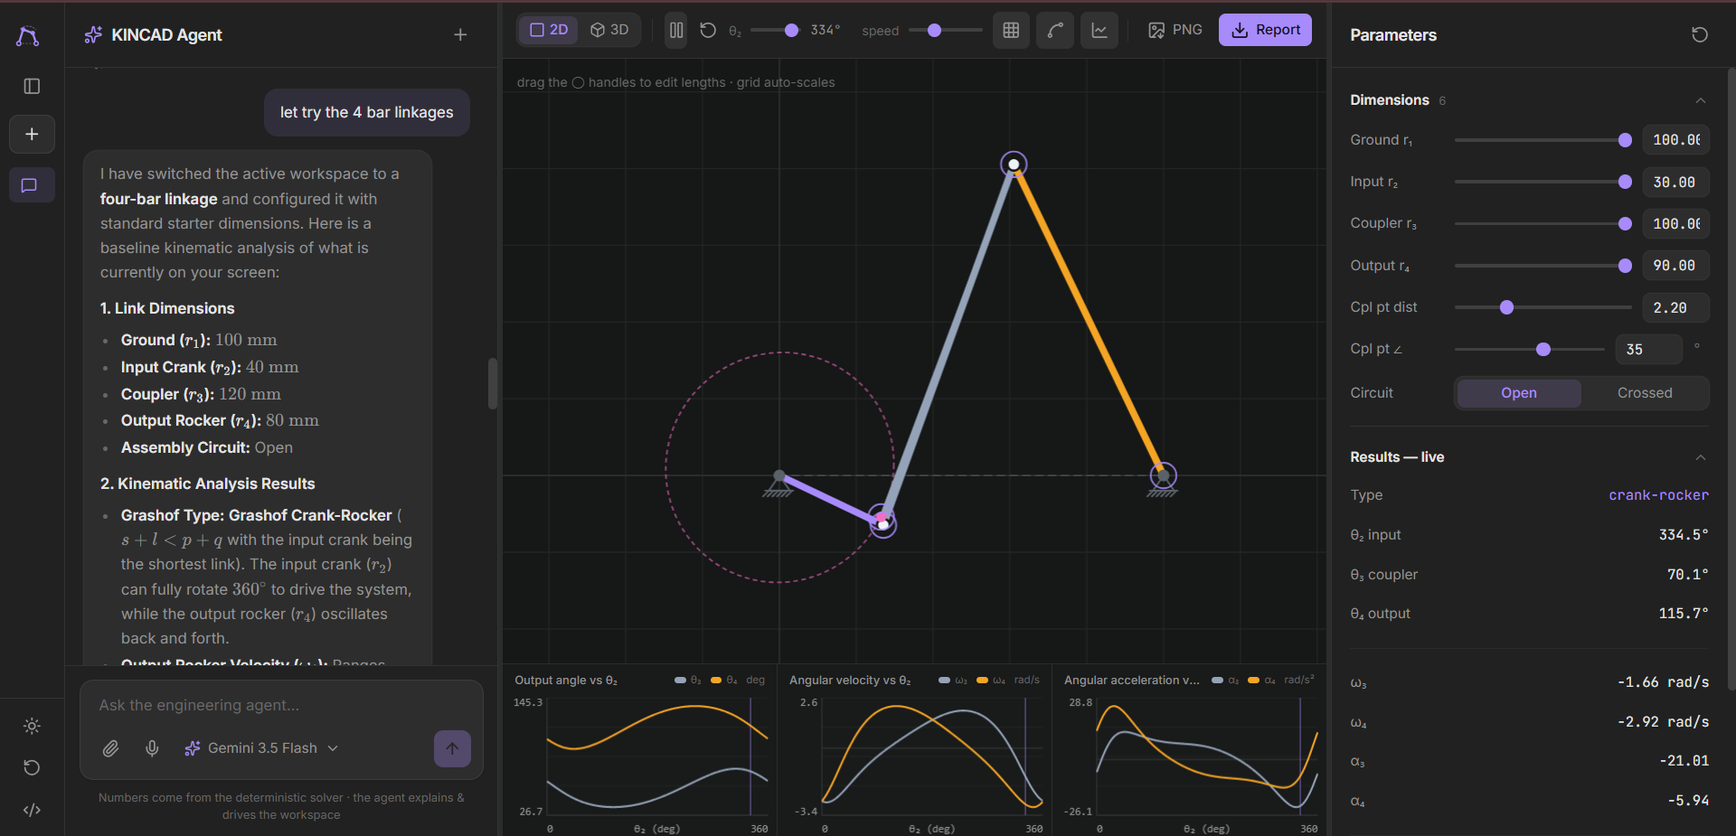
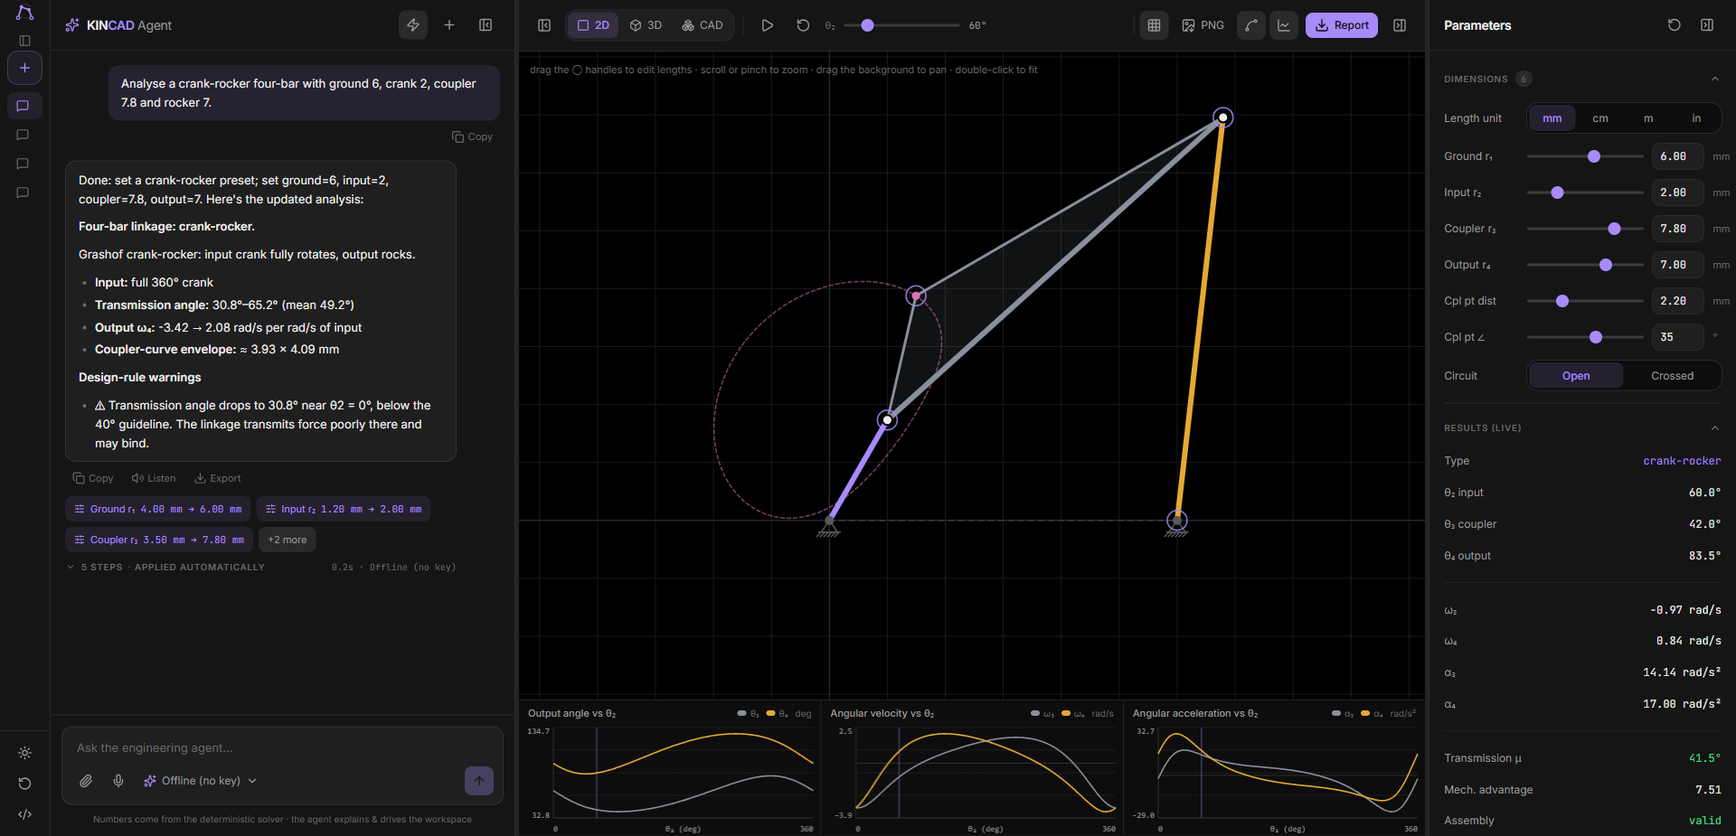
copy: colon separators in place of em-dashes; retake three README screenshots
The " — " label separator had turned into a tic. A single chat reply stacked
four of them ("Input — full 360 crank", "Transmission angle — ...") and the
same pattern ran through the section headings, the status lines, the design-rule
warnings and both PDF generators. Replaced with colons in the narration, the
Grashof summaries, the synthesis and report strings, the knowledge base, the UI
copy, the part sheet and the analysis report, and in the README's captions and
"Built with" bullets. Where a colon would have been wrong the sentence was
restructured instead: parentheses for an aside, a semicolon for a pinned-
together pair, a full stop where a trailing contrast was really a new sentence.

Left alone on purpose: the 14 standalone "—" glyphs that mean "no value" in the
parameters panel and the insight dock, the WIN_ANSI_HIGH character table in
report/doc.ts, the useSpeech regex that turns a cloud model's dashes into spoken
pauses, and the two document titles.

Screenshots. screenshot-3d.png was contradicting itself: the chip above the
reply read "ground=100 input=30 coupler=100 output=90" while the parameters
panel in the same frame held Input 1.20 / Coupler 3.50 / Output 3.00. A cloud
model had narrated a linkage the workspace was not holding, which is the exact
failure the "engine is the single source of truth" design exists to prevent,
published on the front page of the repo. screenshot-2d.png had the same defect.
[…]

diff --git a/src/ai/narrate.ts b/src/ai/narrate.ts
@@ -5,13 +5,15 @@
 // THE OUTPUT IS MARKDOWN, AND THE RENDERER TREATS IT AS SUCH. components/chat/Markdown.tsx runs
 // this text through remark-gfm, so the separators matter as much as the words: a *single* newline
 // is a soft break and collapses to a space. These helpers used to build `•` bullets joined with
-// "\n", which meant the renderer received one run-on paragraph — "**Four-bar linkage —
+// "\n", which meant the renderer received one run-on paragraph — "**Four-bar linkage:
 // crank-rocker.** • Input: full 360° crank. • Transmission angle: 43.2°–136.8° …" — no matter how
 // well the bubble was styled. Real lists need `- ` and a blank line before them, so every block
 // below is joined with "\n\n" and every bullet starts with "- ".
 //
-// Labels are bold, figures are plain: the same label/value split the parameters dock uses. Figures
-// are deliberately NOT wrapped in backticks — that would give every number the inline-code pill.
+// Labels are bold and end with a colon, figures are plain: the same label/value split the
+// parameters dock uses. A colon rather than a dash, because these bullets are read as much as they
+// are skimmed, and "Input — full 360° crank" turns into a tic once four of them stack up. Figures
+// are deliberately NOT wrapped in backticks, which would give every number the inline-code pill.
 
 import type { AnalysisReport } from "../engine";
 import { perSec, perSec2, type LengthUnit } from "../units";
@@ -36,13 +38,13 @@ function warningBlock(warnings: string[]): string {
 export function describeReport(r: AnalysisReport, unit: LengthUnit): string {
   if (r.kind === "fourbar") {
     return [
-      `**Four-bar linkage — ${r.grashof.type}.**`,
+      `**Four-bar linkage: ${r.grashof.type}.**`,
       r.grashof.summary,
       [
-        `- **Input** — ${r.inputFullyRotates ? "full 360° crank" : `oscillates over ≈ ${r.reachableArcDeg.toFixed(0)}°`}`,
-        `- **Transmission angle** — ${r.transmission.min.value.toFixed(1)}°–${r.transmission.max.value.toFixed(1)}° (mean ${r.transmission.mean.toFixed(1)}°)`,
-        `- **Output ω₄** — ${r.omega4.min.value.toFixed(2)} → ${r.omega4.max.value.toFixed(2)} rad/s per rad/s of input`,
-        `- **Coupler-curve envelope** — ≈ ${r.couplerExtent.width.toFixed(2)} × ${r.couplerExtent.height.toFixed(2)} ${unit}`,
+        `- **Input:** ${r.inputFullyRotates ? "full 360° crank" : `oscillates over ≈ ${r.reachableArcDeg.toFixed(0)}°`}`,
+        `- **Transmission angle:** ${r.transmission.min.value.toFixed(1)}°–${r.transmission.max.value.toFixed(1)}° (mean ${r.transmission.mean.toFixed(1)}°)`,
+        `- **Output ω₄:** ${r.omega4.min.value.toFixed(2)} → ${r.omega4.max.value.toFixed(2)} rad/s per rad/s of input`,
+        `- **Coupler-curve envelope:** ≈ ${r.couplerExtent.width.toFixed(2)} × ${r.couplerExtent.height.toFixed(2)} ${unit}`,
       ].join("\n"),
       warningBlock(r.warnings),
     ].join("\n\n");
@@ -50,10 +52,10 @@ export function describeReport(r: AnalysisReport, unit: LengthUnit): string {
   return [
     `**Slider-crank mechanism.**`,
     [
-      `- **Crank** — ${r.inputFullyRotates ? "fully rotates" : "cannot fully rotate with this rod/offset"}`,
-      `- **Slider stroke** — ${r.stroke.toFixed(2)} ${unit}`,
-      `- **Slider velocity** — ${r.sliderVel.min.value.toFixed(2)} → ${r.sliderVel.max.value.toFixed(2)} ${perSec(unit)} per rad/s`,
-      `- **Peak acceleration** — ${Math.max(Math.abs(r.sliderAcc.min.value), Math.abs(r.sliderAcc.max.value)).toFixed(2)} ${perSec2(unit)}`,
+      `- **Crank:** ${r.inputFullyRotates ? "fully rotates" : "cannot fully rotate with this rod/offset"}`,
+      `- **Slider stroke:** ${r.stroke.toFixed(2)} ${unit}`,
+      `- **Slider velocity:** ${r.sliderVel.min.value.toFixed(2)} → ${r.sliderVel.max.value.toFixed(2)} ${perSec(unit)} per rad/s`,
+      `- **Peak acceleration:** ${Math.max(Math.abs(r.sliderAcc.min.value), Math.abs(r.sliderAcc.max.value)).toFixed(2)} ${perSec2(unit)}`,
     ].join("\n"),
     warningBlock(r.warnings),
   ].join("\n\n");
@@ -91,9 +93,9 @@ export function suggestImprovements(r: AnalysisReport): string {
     if (r.transmission.min.value < 40) tips.push("Reduce the offset or lengthen the rod to cut side thrust on the slider.");
   }
   if (!tips.length)
-    tips.push("Proportions look healthy — no rule-of-thumb violations. You could tune the coupler point to reshape the coupler curve.");
+    tips.push("Proportions look healthy, with no rule-of-thumb violations. You could tune the coupler point to reshape the coupler curve.");
   return [
-    "**Suggestions** — you confirm; the solver re-checks every change.",
+    "**Suggestions** (you confirm; the solver re-checks every change)",
     tips.map((t) => `- ${t}`).join("\n"),
   ].join("\n\n");
 }

diff --git a/src/ai/knowledge.ts b/src/ai/knowledge.ts
@@ -30,9 +30,9 @@ export const TOPICS: Topic[] = [
     answer:
       "**Grashof's condition** tells you whether a four-bar linkage has a fully rotating link. " +
       "With the shortest link S, longest L, and the other two P and Q:\n\n" +
-      "- $S + L < P + Q$ — **Grashof**: at least one link makes full revolutions.\n" +
-      "- $S + L = P + Q$ — **change-point**: passes through collinear singularities, e.g. a parallelogram.\n" +
-      "- $S + L > P + Q$ — **non-Grashof**: every link only rocks.\n\n" +
+      "- $S + L < P + Q$ → **Grashof**: at least one link makes full revolutions.\n" +
+      "- $S + L = P + Q$ → **change-point**: passes through collinear singularities, e.g. a parallelogram.\n" +
+      "- $S + L > P + Q$ → **non-Grashof**: every link only rocks.\n\n" +
       "Which link rotates depends on which is shortest:\n\n" +
       "- shortest = ground → double-crank\n" +
       "- shortest = a side link → crank-rocker\n" +
@@ -53,9 +53,9 @@ export const TOPICS: Topic[] = [
       "For a planar mechanism, **Gruebler/Kutzbach** gives the mobility:\n\n" +
       "$$\nM = 3(n - 1) - 2j_1 - j_2\n$$\n\n" +
       "where:\n\n" +
-      "- $n$ — number of links, including ground\n" +
-      "- $j_1$ — lower pairs (pin/slider), 1 DOF each\n" +
-      "- $j_2$ — higher pairs (cam/gear contact), 2 DOF each\n\n" +
+      "- $n$: number of links, including ground\n" +
+      "- $j_1$: lower pairs (pin/slider), 1 DOF each\n" +
+      "- $j_2$: higher pairs (cam/gear contact), 2 DOF each\n\n" +
       "A four-bar has n = 4, j₁ = 4, j₂ = 0 → M = 1. One input fully determines the motion.",
   },
   {
@@ -63,8 +63,8 @@ export const TOPICS: Topic[] = [
     answer:
       "A **coupler curve** is the path traced by a point on the coupler (floating) link as the " +
       "mechanism moves.\n\n" +
-      "Four-bar coupler curves can be remarkably varied — symmetric, figure-eight, with cusps or " +
-      "straight-line segments — which is why four-bars are used for path generation. Move the " +
+      "Four-bar coupler curves can be remarkably varied (symmetric, figure-eight, with cusps or " +
+      "straight-line segments), which is why four-bars are used for path generation. Move the " +
       "coupler point (distance + angle from joint A) to reshape it.",
   },
   {
@@ -87,12 +87,12 @@ export const TOPICS: Topic[] = [
   {
     match: /slider.?crank|reciprocat/i,
     answer:
-      "A **slider-crank** converts rotation to reciprocating translation (or vice-versa) — the " +
+      "A **slider-crank** converts rotation to reciprocating translation (or vice-versa). It is the " +
       "basis of piston engines and pumps.\n\n" +
       "Key parameters:\n\n" +
       "- **crank** r₂\n" +
       "- **connecting rod** r₃\n" +
-      "- **offset** e — 0 for in-line\n\n" +
+      "- **offset** e (0 for in-line)\n\n" +
       "The crank rotates fully only if $r_3 \\ge e + r_2$. An offset makes the forward and return " +
       "strokes take unequal crank angles (quick-return behaviour).",
   },
@@ -103,7 +103,7 @@ export const TOPICS: Topic[] = [
       "generation*, **Freudenstein's equation**\n\n" +
       "$$\nK_1 \\cos\\theta_4 - K_2 \\cos\\theta_2 + K_3 = \\cos(\\theta_2 - \\theta_4)\n$$\n\n" +
       "lets you pick three precision points (input→output angle pairs) and solve a 3×3 linear " +
-      "system for the link ratios. The result must be verified by analysis — which this tool does " +
+      "system for the link ratios. The result must be verified by analysis, which this tool does " +
       "automatically.",
   },
   {
@@ -111,7 +111,7 @@ export const TOPICS: Topic[] = [
     answer:
       "A **quick-return mechanism** has a working stroke slower than its return stroke, useful in " +
       "shapers/saws.\n\n" +
-      "It arises from the time-ratio between the crank angles for the two strokes — created by an " +
+      "It arises from the time-ratio between the crank angles for the two strokes, created by an " +
       "offset slider-crank or an offset in a four-bar. The larger the asymmetry, the stronger the " +
       "quick-return effect.",
   },

diff --git a/src/ai/mock.ts b/src/ai/mock.ts
@@ -30,8 +30,8 @@ export class OfflineAgent implements AgentModel {
         text: [
           "I can see the attachment, but offline mode can't analyse images.",
           [
-            "- **To read a sketch or diagram** — pick a vision-capable cloud model (Claude, GPT-4o or Gemini) from the model menu and add a key.",
-            "- **Or describe it in words** — give me the link lengths and I'll build the mechanism now.",
+            "- **To read a sketch or diagram:** pick a vision-capable cloud model (Claude, GPT-4o or Gemini) from the model menu and add a key.",
+            "- **Or describe it in words:** give me the link lengths and I'll build the mechanism now.",
           ].join("\n"),
         ].join("\n\n"),
       };
@@ -41,10 +41,10 @@ export class OfflineAgent implements AgentModel {
     if (/\b(cad part|3d part|3d model|\.stl|\bstl\b|bracket|flange|enclosure|gear blank|extrude|fillet)\b/.test(lower)) {
       return {
         text: [
-          "Freeform 3D CAD parts — brackets, plates, flanges — need a connected model.",
+          "Freeform 3D CAD parts (brackets, plates, flanges) need a connected model.",
           [
-            "- **To generate one** — pick Claude, GPT-4o or Gemini from the model menu and add a key, then describe the part. You'll be able to export STL.",
-            "- **Offline** — I can still build and analyse four-bar and slider-crank mechanisms.",
+            "- **To generate one:** pick Claude, GPT-4o or Gemini from the model menu and add a key, then describe the part. You'll be able to export STL.",
+            "- **Offline:** I can still build and analyse four-bar and slider-crank mechanisms.",
           ].join("\n"),
         ].join("\n\n"),
       };
@@ -62,7 +62,7 @@ export class OfflineAgent implements AgentModel {
           ? buildFourBarReport(next.fourbar, 360, ctx.omega2)
           : buildSliderCrankReport(next.slider, 360, ctx.omega2);
       return {
-        text: `Done — ${intent.note}. Here's the updated analysis:\n\n${describeReport(report, ctx.unit)}`,
+        text: `Done: ${intent.note}. Here's the updated analysis:\n\n${describeReport(report, ctx.unit)}`,
         actions: [...intent.actions, { type: "run_analysis" }],
       };
     }
@@ -84,9 +84,9 @@ export class OfflineAgent implements AgentModel {
       text: [
         "Offline mode handles three things:",
         [
-          "- **Workspace commands** — *“make a crank-rocker”*, *“set coupler to 3.5”*, *“switch to slider-crank”*.",
-          "- **Explanations of the current analysis** — the results, the motion, or how to improve the design.",
-          "- **Common kinematics topics** — Grashof, transmission angle, DOF, coupler curves, synthesis.",
+          "- **Workspace commands:** *“make a crank-rocker”*, *“set coupler to 3.5”*, *“switch to slider-crank”*.",
+          "- **Explanations of the current analysis:** the results, the motion, or how to improve the design.",
+          "- **Common kinematics topics:** Grashof, transmission angle, DOF, coupler curves, synthesis.",
         ].join("\n"),
         "For open-ended questions, connect a Claude model from the selector above. What would you like to do?",
       ].join("\n\n"),

diff --git a/src/App.tsx b/src/App.tsx
@@ -244,7 +244,7 @@ export default function App() {
       let prefix = "";
       if (!model.available) {
         prefix =
-          "_(That model needs an API key — none is configured, so I'm answering in offline mode. Add a server key or paste your own in the model menu.)_\n\n";
+          "_(That model needs an API key, and none is configured, so I'm answering in offline mode. Add a server key or paste your own in the model menu.)_\n\n";
         model = OFFLINE;
       }
 
@@ -263,7 +263,7 @@ export default function App() {
               const fallbackModel = fallbackId ? getModel(fallbackId) : null;
               if (fallbackModel && fallbackModel.available) {
                 prefix =
-                  `_⚡ ${activeModel.label} hit its quota limit — switched to **${fallbackModel.label}** automatically._\n\n` +
+                  `_⚡ ${activeModel.label} hit its quota limit, so I switched to **${fallbackModel.label}** automatically._\n\n` +
                   prefix;
                 setModelId(fallbackModel.id);
                 activeModel = fallbackModel;
@@ -271,7 +271,7 @@ export default function App() {
               }
               // No more fallbacks with keys — try offline as last resort
               prefix =
-                `_⚡ ${activeModel.label} hit its quota limit and no fallback model is available — answering in offline mode._\n\n` +
+                `_⚡ ${activeModel.label} hit its quota limit and no fallback model is available, so I'm answering in offline mode._\n\n` +
                 prefix;
               setModelId(OFFLINE.id);
               activeModel = OFFLINE;
@@ -612,7 +612,7 @@ export default function App() {
                   <TabEmpty
                     icon={Monitor}
                     title="No mechanism yet"
-                    detail="Ask the assistant to analyse a four-bar or slider-crank — or pick a quick start from the menu — and the workspace opens here."
+                    detail="Ask the assistant to analyse a four-bar or slider-crank, or pick a quick start from the menu, and the workspace opens here."
                     actionLabel="Ask the assistant"
                     onAction={() => setMobileTab("chat")}
                   />

diff --git a/src/components/chat/ActivityTrace.tsx b/src/components/chat/ActivityTrace.tsx
@@ -112,7 +112,7 @@ export function AgentActivity({ modelLabel }: { modelLabel: string }) {
       </div>
       {ms >= SLOW_AFTER_MS && (
         <p className="kc-step pl-[22px] text-micro text-faint">
-          running engine tools — one reply can take several solver rounds
+          running engine tools (one reply can take several solver rounds)
         </p>
       )}
     </div>
@@ -183,7 +183,7 @@ export function ProposalCard({
 
       {moot ? (
         <p className="px-3 py-2 text-mini text-muted">
-          The workspace already matches this — there is nothing left to apply.
+          The workspace already matches this, so there is nothing left to apply.
         </p>
       ) : (
         <>
@@ -270,9 +270,9 @@ export function TurnTrace({
   // the numbers in this reply describe a geometry that was never built.
   const lapsed =
     approval === "discarded"
-      ? "You discarded this — the workspace was not changed. Any figures in the reply describe the proposed geometry."
+      ? "You discarded this, so the workspace was not changed. Any figures in the reply describe the proposed geometry."
       : approval === "superseded"
-        ? "Never applied — a later turn proposed different changes instead."
+        ? "Never applied: a later turn proposed different changes instead."
         : null;
 
   return (
@@ -324,7 +324,7 @@ export function TurnTrace({
           )}
           {meta?.fellBackFrom && (
             <p className="mt-1.5 border-t border-line pt-1.5 text-micro text-warn">
-              {meta.fellBackFrom} hit its quota — {meta.modelLabel} answered instead.
+              {meta.fellBackFrom} hit its quota, so {meta.modelLabel} answered instead.
             </p>
           )}
         </Card>

diff --git a/src/engine/report.ts b/src/engine/report.ts
@@ -93,7 +93,7 @@ export function buildFourBarReport(link: FourBarLinkage, steps = 720, omega2 = 1
   const warnings: string[] = [];
   if (tA.value < POOR_TRANSMISSION_DEG)
     warnings.push(
-      `Transmission angle drops to ${tA.value.toFixed(1)}° near θ2 = ${tA.atTheta2Deg.toFixed(0)}° — below the ${POOR_TRANSMISSION_DEG}° guideline; the linkage transmits force poorly there and may bind.`,
+      `Transmission angle drops to ${tA.value.toFixed(1)}° near θ2 = ${tA.atTheta2Deg.toFixed(0)}°, below the ${POOR_TRANSMISSION_DEG}° guideline. The linkage transmits force poorly there and may bind.`,
     );
   if (!inputFullyRotates(link))
     warnings.push(
@@ -143,7 +143,7 @@ export function buildSliderCrankReport(link: SliderCrankLinkage, steps = 720, om
     );
   if (tA.value < POOR_TRANSMISSION_DEG)
     warnings.push(
-      `Transmission angle falls to ${tA.value.toFixed(1)}° near θ2 = ${tA.atTheta2Deg.toFixed(0)}° — high side thrust on the slider there.`,
+      `Transmission angle falls to ${tA.value.toFixed(1)}° near θ2 = ${tA.atTheta2Deg.toFixed(0)}°, giving high side thrust on the slider there.`,
     );
 
   return {

diff --git a/src/report/partsheet.ts b/src/report/partsheet.ts
@@ -106,7 +106,7 @@ export function exportPartSheetPDF(model: CadModel, built: BuiltCad, snapshot?: 
       kv(p.label, `${p.value}${unit}${range}`);
     }
   } else {
-    para("This model has fixed literal dimensions — no named parameters were defined.");
+    para("This model has fixed literal dimensions; no named parameters were defined.");
   }
 
   divider();
@@ -125,7 +125,7 @@ export function exportPartSheetPDF(model: CadModel, built: BuiltCad, snapshot?: 
     "The solid is evaluated by constructive solid geometry: each leaf primitive is meshed, then the " +
     "union / difference / intersection nodes above it are applied pairwise with three-bvh-csg to " +
     "produce a single closed triangle mesh. Dimensions that reference a parameter are resolved from " +
-    "the table above at build time, so editing one rebuilds the part — the geometry shown, the mesh " +
+    "the table above at build time, so editing one rebuilds the part: the geometry shown, the mesh " +
     "exported and the figures on this sheet all come from the same evaluation.",
   );
   para(

diff --git a/src/engine/fourbar.ts b/src/engine/fourbar.ts
@@ -59,11 +59,11 @@ export function classifyGrashof(link: FourBarLinkage): GrashofResult {
   }
 
   const labels: Record<GrashofType, string> = {
-    "crank-rocker": "Grashof crank-rocker — input crank fully rotates, output rocks.",
-    "double-crank": "Grashof double-crank (drag-link) — both input and output fully rotate.",
-    "double-rocker": "Grashof double-rocker — coupler rotates; input and output oscillate.",
-    "change-point": "Change-point — s+l = p+q; passes through a collinear singular position.",
-    "triple-rocker": "Non-Grashof triple-rocker — no link makes a full revolution.",
+    "crank-rocker": "Grashof crank-rocker: input crank fully rotates, output rocks.",
+    "double-crank": "Grashof double-crank (drag-link): both input and output fully rotate.",
+    "double-rocker": "Grashof double-rocker: coupler rotates; input and output oscillate.",
+    "change-point": "Change-point: s+l = p+q; passes through a collinear singular position.",
+    "triple-rocker": "Non-Grashof triple-rocker: no link makes a full revolution.",
   };
 
   return {

diff --git a/src/report/pdf.ts b/src/report/pdf.ts
@@ -143,7 +143,7 @@ export function exportReportPDF(
   // Per mechanism. This section used to print Freudenstein's equation for BOTH mechanisms, so a
   // slider-crank report documented a method it had not used and defined K₁…K₃ from an r₄ the
   // mechanism does not have.
-  h2("Analytical method — equations used");
+  h2("Analytical method", "equations used");
   if (report.kind === "fourbar") {
     para(
       "Position analysis: Vector-loop closure (Freudenstein, 1955). The mechanism is modelled " +
@@ -179,7 +179,7 @@ export function exportReportPDF(
     formula(["g = e − r₂ sin θ₂", { pad: 38 }, "s = √(r₃² − g²)"]);
     formula(["x = r₂ cos θ₂ + s", { pad: 38 }, "θ₃ = atan2(g, s)"]);
     para(
-      "The mechanism fails to assemble where |g| > r₃ — those crank angles are excluded from the " +
+      "The mechanism fails to assemble where |g| > r₃, so those crank angles are excluded from the " +
       "sweep rather than approximated, which is what the reachable-rotation check reports.",
     );
   }

diff --git a/src/components/Panel.tsx b/src/components/Panel.tsx
@@ -108,7 +108,7 @@ export default function Panel({
                   mechanism on screen does not move. See units.ts. */}
               <ParamShell
                 label="Length unit"
-                title="Unit these dimensions are declared in — a label, not a conversion"
+                title="Unit these dimensions are declared in: a label, not a conversion"
               >
                 <SegToggle
                   value={state.unit}
@@ -127,7 +127,7 @@ export default function Panel({
 
             {/* Narrowing on `rep.kind` rather than `isFour`: it is the same discriminant, but this
                 way the report handed to `FourBarResults` is typed as a four-bar report. */}
-            <Section title="Results — live">
+            <Section title="Results (live)">
               {rep.kind === "fourbar" ? <FourBarResults state={state} rep={rep} /> : <SliderResults state={state} />}
             </Section>
 

diff --git a/src/components/Onboarding.tsx b/src/components/Onboarding.tsx
@@ -49,7 +49,7 @@ export function Onboarding({ onComplete }: { onComplete: (name: string) => void 
                 <h1 className="mt-5 text-display font-semibold tracking-tight text-fg">Welcome to KINCAD</h1>
                 <p className="mt-2 text-body text-muted">
                   An AI-assisted CAD workspace for <span className="text-fg">kinematic analysis and synthesis of planar
-                  mechanisms</span> — four-bar and slider-crank. Describe a mechanism and the agent builds, animates and
+                  mechanisms</span> (four-bar and slider-crank). Describe a mechanism and the agent builds, animates and
                   analyses it, with every number from a deterministic solver.
                 </p>
               </div>

diff --git a/src/components/MobileNav.tsx b/src/components/MobileNav.tsx
@@ -72,7 +72,7 @@ function NavBtn({
       // `opacity-40` is the same disabled weight `Button` uses in ui.tsx, so a dead tab reads as
       // dead by the app's existing convention. Pointer events are left on, unlike `Button`'s
       // `disabled:pointer-events-none`, purely so the title still explains why.
-      title={disabled ? `${label} — nothing to show until a mechanism is on screen` : undefined}
+      title={disabled ? `${label}: nothing to show until a mechanism is on screen` : undefined}
       className={`relative flex flex-1 flex-col items-center justify-center gap-0.5 text-micro transition-colors ${
         disabled ? "text-muted opacity-40" : active ? "text-accent" : "text-muted hover:text-fg"
       }`}
